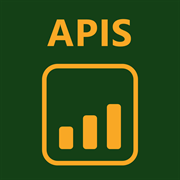
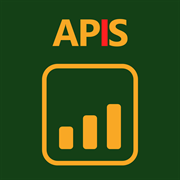
feat(admin,mobile): brand the APIS wordmark with a red I
Both APIS icons now paint only the I in the bright red brand colour: the Tax Manager PWA (gold A/P/S with a red I on dark green) and the citizen Flutter launcher (white A/P/S with a red I on the green gradient). The wordmark is now drawn as per-letter glyph paths so a single letter can be tinted. Android and iOS launcher icons regenerated, the debug APK rebuilt, and the officer-side service-worker cache moves to landfee-admin-v5.

Changed region(s): [[0.25, 0.0833, 0.75, 0.2778]]

diff --git a/public/admin/sw.js b/public/admin/sw.js
@@ -6,7 +6,7 @@
 // ever stored on the device. Everything else goes straight to the network —
 // there is no offline data entry (OCR, fee lookup and verification all need
 // the server).
-const CACHE = 'landfee-admin-v4';
+const CACHE = 'landfee-admin-v5';
 const SHELL = [
   './manifest.webmanifest',
   './manifest-manager.webmanifest',

diff --git a/AGENTS.md b/AGENTS.md
@@ -55,7 +55,7 @@ Land Fee Payment MVP for Savannakhet Province (Lao). Three front-ends over one P
 - **Zone codes are district-lettered.** `districts.zone_letter` (A–O for Savannakhet) prefixes each zone code (`A1`, `O4`). Legacy zones `G17/A7/C7/C8` stay active with `district_id = NULL` ("unassigned").
 - **Citizens are scoped by `owners.citizen_user_id`** (not `payments.payer_owner_id`, which is an `owners.id`). A parcel links a citizen only when that column is set — officer scan-confirm never sets it. The app sets it itself via `citizen_claim.php` (the explicit "add to my parcels" step after a lookup); the officer undoes it on `parcel.php` (`owners.php` `action=unlink_citizen`, audited). Until one of those runs, a new parcel is invisible to citizens.
 - **There is one scan → parcel workflow, and it lives in Parcel Entry's Scan tab (`public/admin/parcel_entry.php?tab=scan` → `api/v1/scans/confirm.php`).** Scan Review is no longer a separate menu item; `public/admin/scans.php` is only a redirect to that tab. Upload, OCR review, confirm/correct and discard all run from the tab, and `api/v1/parcels.php` no longer accepts `scan_id`. Don't add a second confirm path — only `scans/confirm.php` assesses the current-year obligation, so a parcel saved any other way can exist with no fee. The scan-review styles (`.parsed-table`, `.conf-*`) live in `style.php`.
-- **The officer back-office is installable as a PWA and has a phone layout.** The manifest, service worker, icons and install tags are in `public/admin/` and emitted by `style.php` (the login page emits them too). A manager gets a **separate install**: when `$role === 'manager'` `style.php` emits `manifest-manager.webmanifest` (`id`/`start_url` `./monitor.php`, gold bar-chart icons `icon-manager-*.png` + `apple-touch-icon-manager.png`, name "Tax Manager") instead of the officer manifest, so a manager's phone shows a read-only app beside the officer one rather than replacing it. Managers install it from `/admin/monitor.php`, where an "Install app" banner opens the browser's install prompt (iPhone gets a Share → Add to Home Screen hint instead; the banner hides itself when already installed or after "Not now" for a month). Installing from the login page installs the officer app (the role is not known yet there). Both installs share `sw.js` (cache `landfee-admin-v4`). The service worker caches **only** the manifests and icons — never authenticated HTML, API responses or uploads, or one officer's data would be served to the next. Phone rules are the single `@media (max-width: 720px)` block: the sidebar becomes a sticky scrolling top bar, tables scroll horizontally, inputs go to 16px (stops iOS zooming). A manager's phone nav shows only Overview, Parcels and Reports — Payments and Obligations carry `nav-desktop-only` (hidden by that media block, still in the desktop sidebar); they are hidden, not blocked, so the URLs still open. Use `.pay-split`/`.pay-actions`/`.split-340` for two-column areas — an inline `grid-template-columns` will not collapse on a phone.
+- **The officer back-office is installable as a PWA and has a phone layout.** The manifest, service worker, icons and install tags are in `public/admin/` and emitted by `style.php` (the login page emits them too). A manager gets a **separate install**: when `$role === 'manager'` `style.php` emits `manifest-manager.webmanifest` (`id`/`start_url` `./monitor.php`, gold bar-chart icons `icon-manager-*.png` + `apple-touch-icon-manager.png`, name "Tax Manager") instead of the officer manifest, so a manager's phone shows a read-only app beside the officer one rather than replacing it. Managers install it from `/admin/monitor.php`, where an "Install app" banner opens the browser's install prompt (iPhone gets a Share → Add to Home Screen hint instead; the banner hides itself when already installed or after "Not now" for a month). Installing from the login page installs the officer app (the role is not known yet there). Both installs share `sw.js` (cache `landfee-admin-v5`). The service worker caches **only** the manifests and icons — never authenticated HTML, API responses or uploads, or one officer's data would be served to the next. Phone rules are the single `@media (max-width: 720px)` block: the sidebar becomes a sticky scrolling top bar, tables scroll horizontally, inputs go to 16px (stops iOS zooming). A manager's phone nav shows only Overview, Parcels and Reports — Payments and Obligations carry `nav-desktop-only` (hidden by that media block, still in the desktop sidebar); they are hidden, not blocked, so the URLs still open. Use `.pay-split`/`.pay-actions`/`.split-340` for two-column areas — an inline `grid-template-columns` will not collapse on a phone.
 - **Manager visibility comes from `users.level`.** `district` managers see their own district, `province` managers are pinned to Savannakhet (resolved by province code `13`, not id, in `staff_province_id()`), and `national` (ministry) managers — e.g. the `min_manager` account — see every province read-only (`staff_province_id()` returns 0). All of it is enforced server-side in `api/v1/dashboard.php`; `monitor.php` only labels the scope ("Whole country" when there is neither a district nor a province). `level` is constrained by `users_level_check` on the server (`019_national_manager_level.sql` widens it to include `national`) — applying that migration is required before the first national account can be created.
 - **Windows PHP built-in server is single-threaded** (`PHP_CLI_SERVER_WORKERS` is Unix-only). Admin pages that call the API server-side deadlock if both share one process. For testing run the API on one port and the UI on another with `API_BASE` pointing at the API.
 - **Production PHP runs under mod_php, not FPM.** The shared `php8.3-fpm` pool has `disable_functions` including `proc_open`/`exec`, which breaks `lib/ocr.php` (Tesseract is launched via `proc_open`). The `landtax.apis.com.la` vhost therefore serves `.php` via `SetHandler "application/x-httpd-php"` (mod_php) so OCR works; the server-wide FPM ini must NOT be edited to un-disable `proc_open` (other apps depend on it). If scan uploads 500 with an empty body, first confirm the landtax vhost is still on mod_php.
